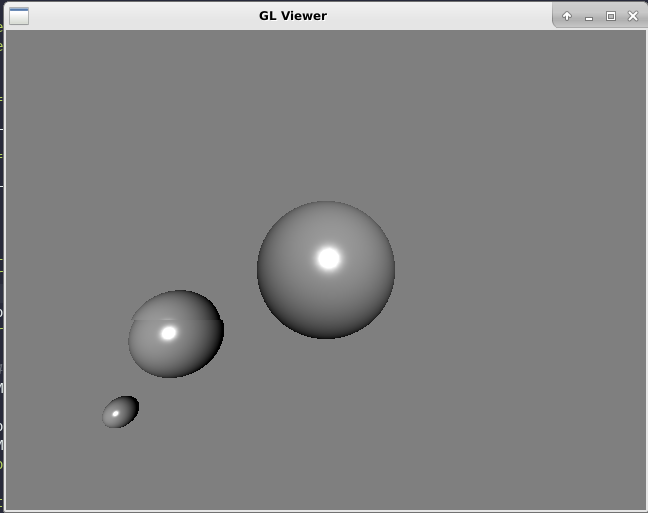
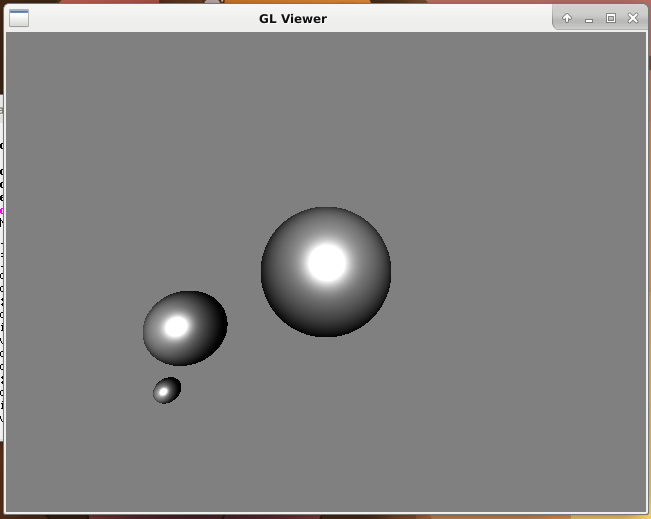
Modification shader & README

Changed region(s): [[0.0, 0.0, 1.0, 1.0], [0.3704, 0.3743, 0.6173, 0.6862], [0.1543, 0.5614, 0.3704, 0.8421]]

diff --git a/TD3_4/README.md b/TD3_4/README.md
@@ -1,10 +1,51 @@
 # Mondes 3D Rapport
 ### TD4/5 : Pipeline Graphique, Antonin AYOT
 
+Le calcul d'éclairage, de la camera et des normales ont été implémentées et sont fonctionnels. Par défaut, le programme se lance avec un système solaire.
+
+L'affichage en fils de fer se fait par la touche `W`.
+
 ## I - Bilan
 
-![tw](https://github.com/Antonneau/Mondes_3D_UB/blob/INSTABLE/TD2/imgs/tw.png?raw=true)
+### Passage à la 3D
 
+Après quelques manipulations de matrices avec les fonctions `Eigen::Translation3f` et `Eigen::AngleAxis3f`, une caméra a dû être implémentée afin d'avoir un meilleur affichage dans le repère de la scène.
+
+Il a fallu implémenter la méthode `Camera::LookAt` en effectuant les calculs vus en TD et mettre la matrice résultante dans la variable `_mViewMatrix` de la classe `Camera`. Cependant celà ne suffit pas pour un affichage convenable, il faut de plus faire une opération dans le shader : multiplier la position `vtx_position` par la matrice de l'objet `mat_obj` et la matrice de la camera obtenue `mat_cam`. Le tout multiplié par la matrice de perspective `mat_persp` et placé dans la variable `gl_position` donne un premier résultat suivant :
+
+![tw](https://github.com/Antonneau/Mondes_3D_UB/blob/INSTABLE/TD3_4/imgs/lemming_persp.png?raw=true)
+
+La suite de ce TD était de créer un petit système solaire, composé d'un soleil, de la Terre et de la Lune.
+Il s'agit d'une série d'appel à `Eigen::Translation3f` et à `Eigen::AngleAxis3f`. Pour la Terre et la Lune, on effectue une 1ère rotation pour tourner autour de l'axe du soleil. On translate ensuite la planète/satellite pour qu'elle puisse orbiter. Afin que la Terre puisse être penchée d'un certain angle, on soustrait à l'axe de rotation l'angle de l'orbite (pour que la Terre puisse être penchée dans le même sens) avant de la pencher de 23 degrès selon l'axe Z et la faire tourner selon l'axe Y. Concernant la Lune, on la translate deux fois pour qu'elle puisse tourner en même temps que la Terre autour du Soleil et qu'elle puisse orbiter autour de la Terre. (le résultat suivant s'est fait après implémentation de l'éclairage)
+
+![tw](https://github.com/Antonneau/Mondes_3D_UB/blob/INSTABLE/TD3_4/imgs/solar_system.png?raw=true)
+
+### Calcul de l'éclairage et des normales
+
+Cette partie nous demandait d'implémenter une fonction Blinn-Phong dans les shaders afin d'avoir de la lumière ambiante. Le calcul se fait dans le Fragment Shader pour un meilleur résultat. Tout d'abord, dans le Vertex Shader, on passe le vecteur de vue, de la normale, de la lumière ainsi que de la couleur diffuse (dans ce Shader car on possède toutes les matrices nécessaires pour les calculs).
+
+On peut ensuite faire le calcul dans le Fragment Shader, en précisant la couleur spéculaire et l'exposant (qui est la taille de la tâche spéculaire). Dans la fonction de Blinn-Phong, on calcule le terme diffus `theta` et le terme spéculaire `beta` qu'on multiplie respectivement par la couleur diffuse et la couleur spéculaire. Le résultat obtenu est ensuite multipliée par une intensité I qui est l'intensité de la lumière (optionnel cependant).
+
+![tw](https://github.com/Antonneau/Mondes_3D_UB/blob/INSTABLE/TD3_4/imgs/monkey_blinn.png?raw=true)
+
+![tw](https://github.com/Antonneau/Mondes_3D_UB/blob/INSTABLE/TD3_4/imgs/monkey_blinn2.png?raw=true)
+
+Cependant ces calculs ne suffisent pas pour les fichiers .off par exemple, qui nécessite un calcul de normales pour chaque sommets du maillage. Pour celà, l'implémentation de la fonction `Mesh::computeNormals()` se fait comme suit :
+
+- On met toutes les normales des sommets à 0
+- On effectue une boucle sur les faces. Dans la liste des faces, chaque cellule contient trois indices qui sont les indices des trois sommets qui composent la face. On construit deux vecteurs qui nous permettent de calculer le vecteur normal de la face, qu'on ajoute à chaque normale des sommets.
+- On normalise les normales de chaque sommets à l'aide de la fonction `Eigen::normalize()`.
+
+Quelques opérations supplémentaires étaient à faire pour de meilleurs résultats :
+- Multiplier le vecteur lumière par la matrice de vue afin d'avoir une lumière fixe sur le plan de la scène et non sur le plan de la camera,
+- Normaliser les normales pour que les objets translatés n'aient pas d'éclairage trop forte.
+
+Voici un résultat avec le fichier `lemming.off` :
+
+![tw](https://github.com/Antonneau/Mondes_3D_UB/blob/INSTABLE/TD3_4/imgs/lemming_normal.png?raw=true)
 
 ## II . Points délicats
 
+La difficulté de ce TD était notamment dû au fait qu'on manquait d'images de rendus pour comparer nos résultats avec ceux des chargés de TD. Ce qui fait que je ne suis pas sûr de mes résultats, qui peuvent avoir du sens mais qui ne peuvent pas forcément avoir lieu d'être.
+
+Par exemple, même après avoir mit la lumière dans le repère monde, la tâche spéculaire peut bouger selon l'emplacement de la caméra. Ce que je trouve étrange, et je ne sais pas si c'est le résultat attendu, alors que le rendu semble être correct.

diff --git a/README.md b/README.md
@@ -17,3 +17,6 @@ Cette partie contient le code et la méthode d'implémentation pour l'affichage 
 - La formule de Möller-Trumbore,
 - BVH, ou la méthode des boites englobantes.
 
+### TD3/4/5 : Débuts OpenGL
+
+Ce fichier contient un affichage d'un petit système solaire sous OpenGL. L'affichage en fils de fer se fait par la touche `W`.
